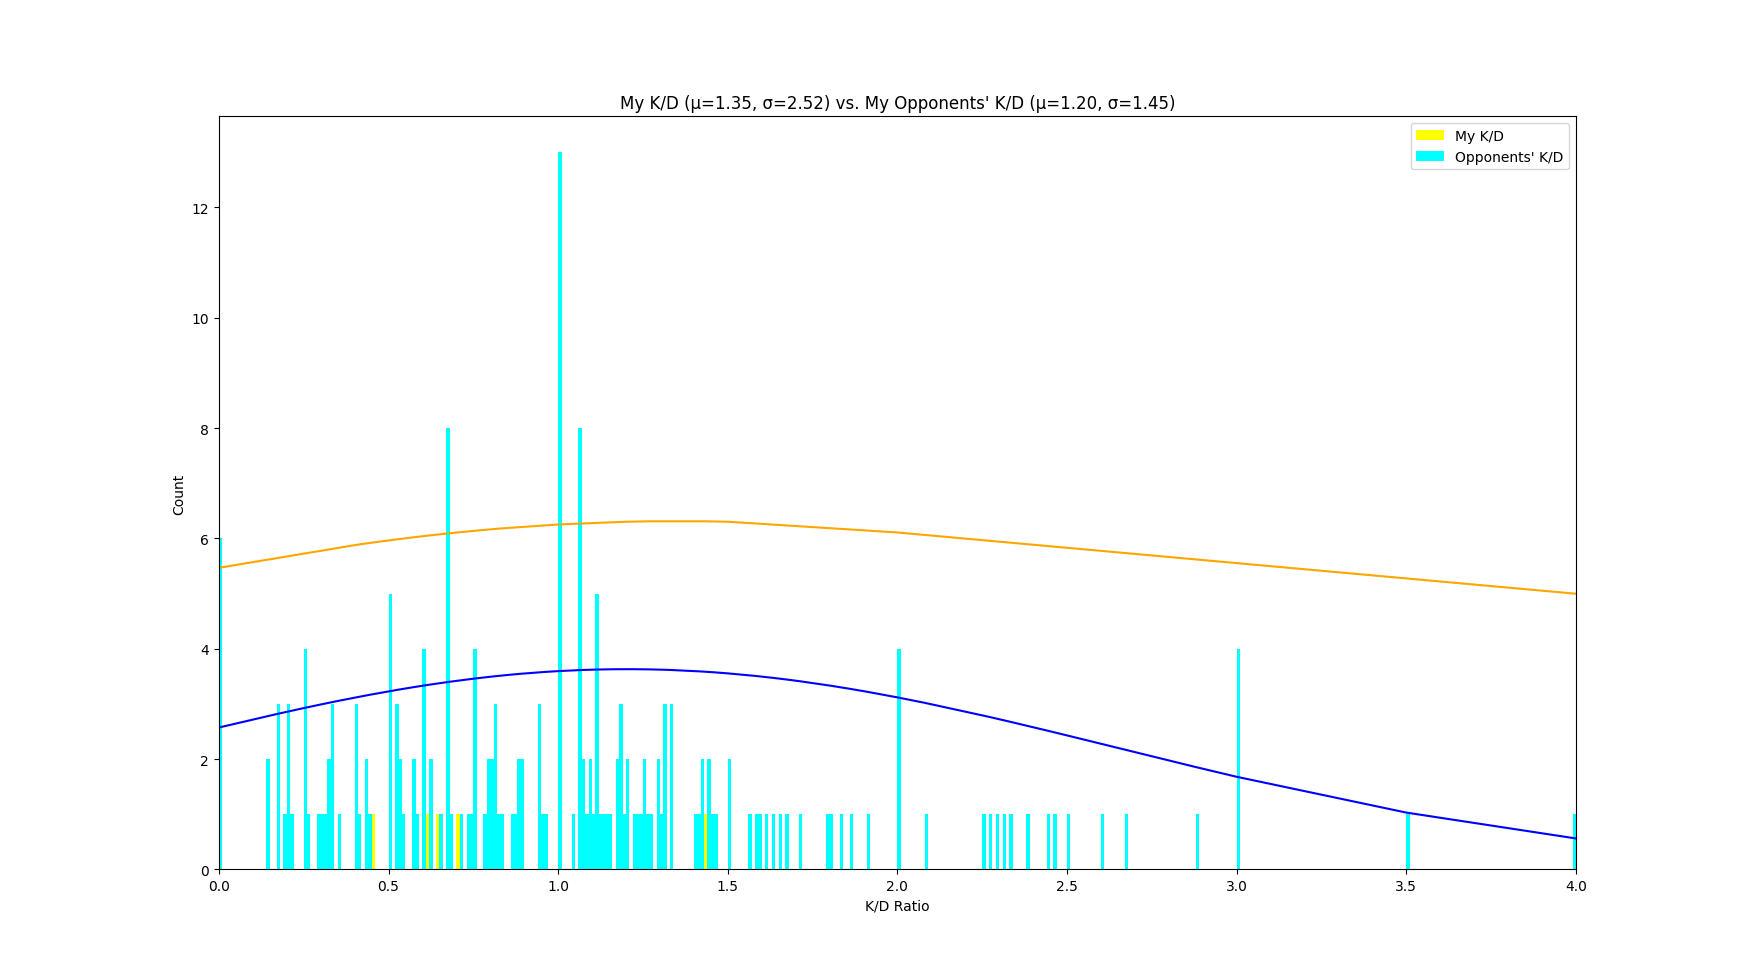
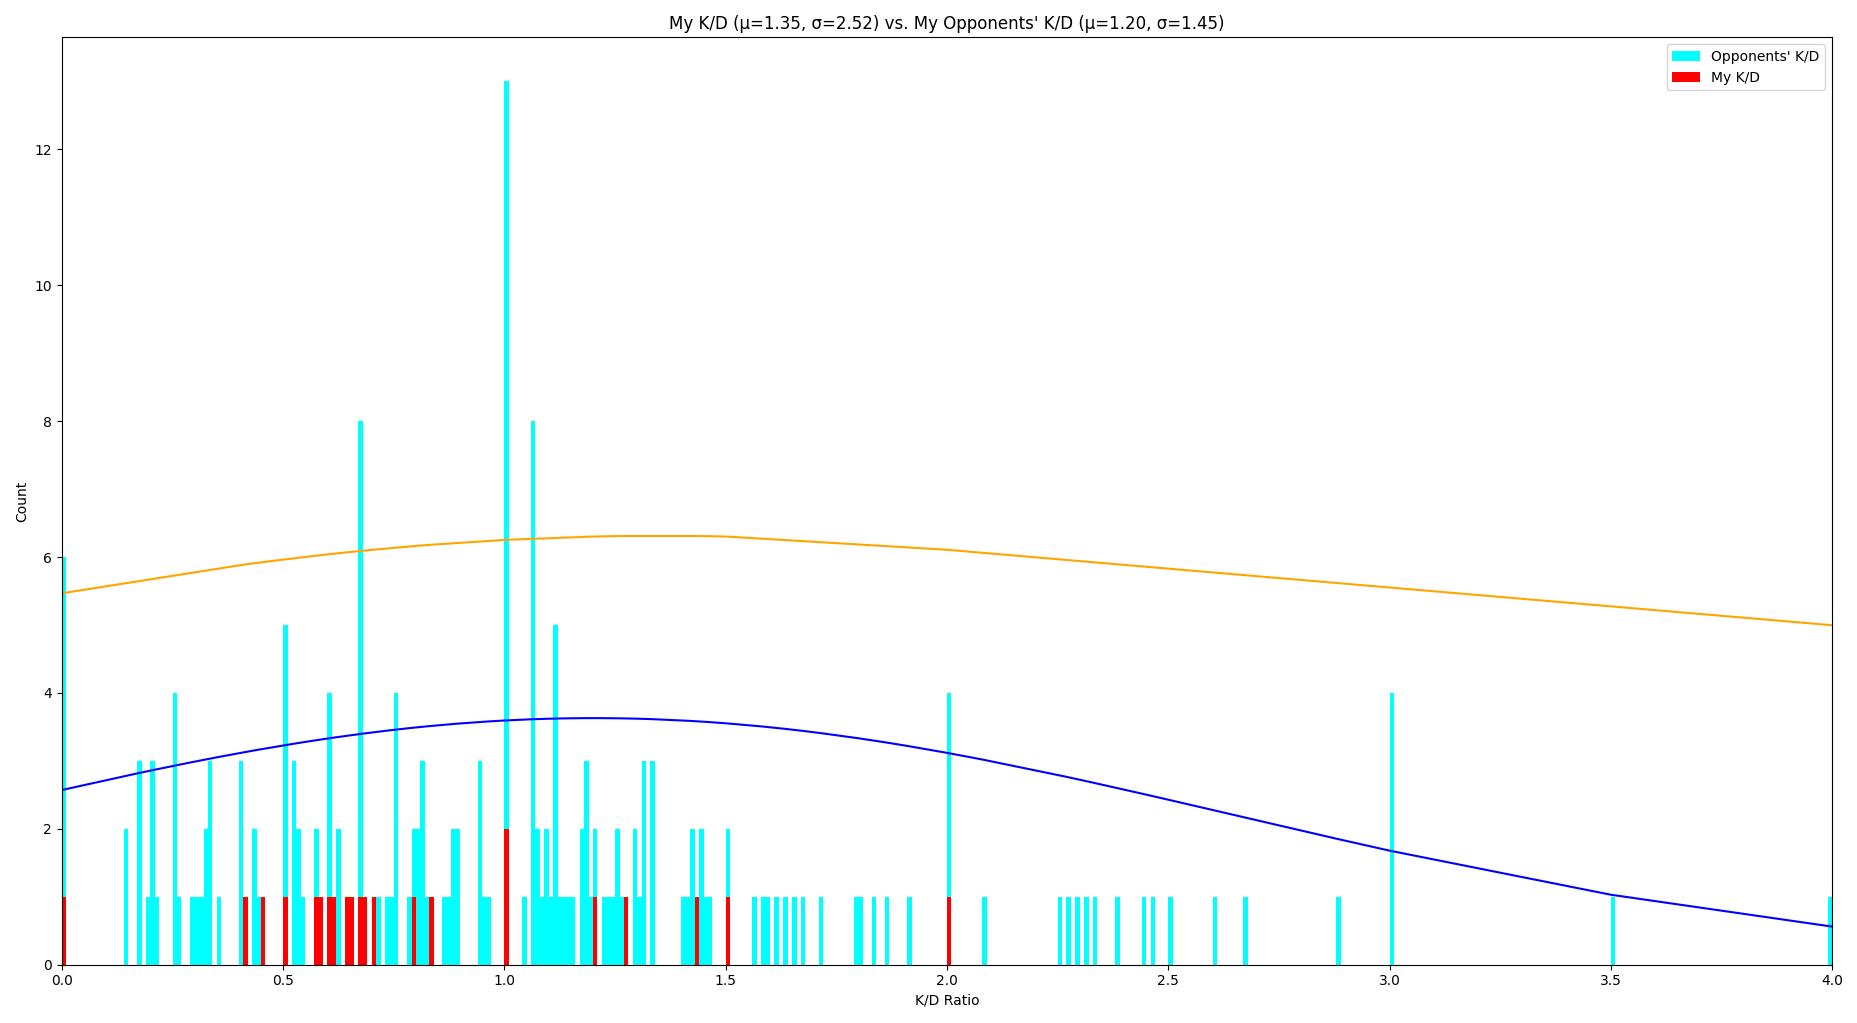
Minor fixes and cosmetic changes

diff --git a/main.py b/main.py
@@ -16,10 +16,10 @@ def gaussian(x, mu, sigma):
 plt.title("My K/D (μ={0:.2f}, σ={1:.2f}) vs. My Opponents' K/D (μ={2:.2f}, σ={3:.2f})".format(myDataAverage, myDataStdDev, generalDataAverage, generalDataStdDev))
 plt.xlabel("K/D Ratio")
 plt.ylabel("Count")
-plt.hist(myData, bins = rangeBins, label = "My K/D", color = "yellow")
-plt.plot(myData, gaussian(myData, myDataAverage, myDataStdDev), color = "orange")                                            # Uncomment after enough data has been acquired
 plt.hist(generalData, bins = rangeBins, label= "Opponents' K/D", color = "cyan")
-plt.plot(generalData, gaussian(generalData, generalDataAverage, generalDataStdDev), color = "blue")                        # Uncomment after enough data has been acquired
+plt.hist(myData, bins = rangeBins, label = "My K/D", color = "red")
+plt.plot(generalData, gaussian(generalData, generalDataAverage, generalDataStdDev), color = "blue")
+plt.plot(myData, gaussian(myData, myDataAverage, myDataStdDev), color = "orange")
 plt.xlim(0,4)
 plt.legend()
 plt.show()

diff --git a/readme.md b/readme.md
@@ -1,5 +1,8 @@
-## I suck at FPS shooters
+## I suck at FPS shooters.
+# How much though?
 
 In this project, using numpy and the K/D from my Valorant and CS:GO games, I try to quantify just how bad I am at these games. Result is show below:
 
 ![](graph.png?raw=true)
+
+The yellow line is the normal distribution for myself while the blue line is the normal distribution for the others. 
